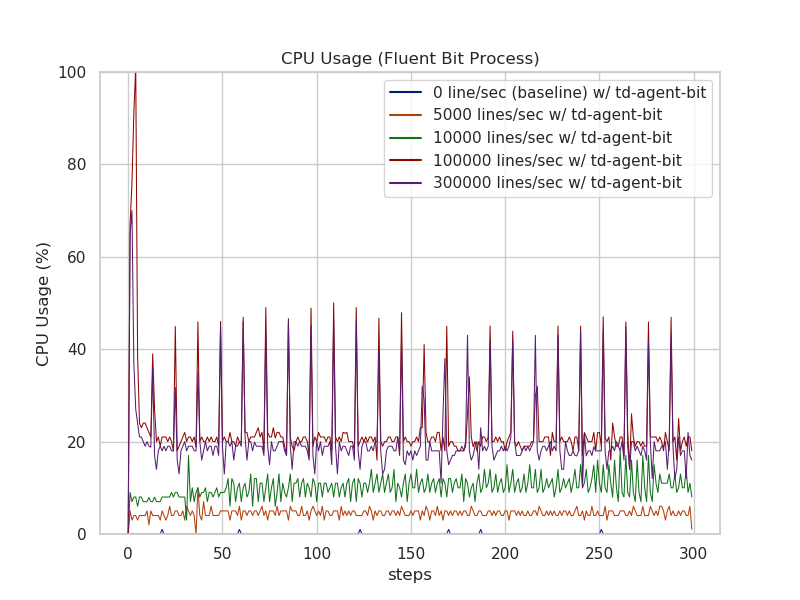
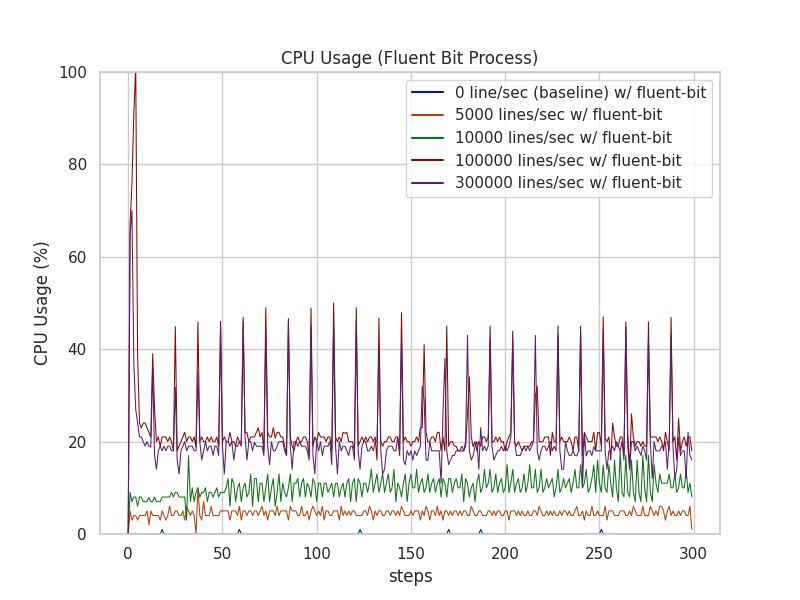
Replace with Fluent Bit word using graphs

diff --git a/in_tail_bench_fluent_bit/visualize/plot_pandas_Usage.py b/in_tail_bench_fluent_bit/visualize/plot_pandas_Usage.py
@@ -16,11 +16,12 @@ parser.add_argument('--resource',
                              'read_bytes', 'write_bytes',
                              'recv_bytes', 'send_bytes'],
                     default='cpu')
-parser.add_argument('--package-name', default="td-agent-bit")
+parser.add_argument('--process-name', default="td-agent-bit")
+parser.add_argument('--package-name', default="fluent-bit")
 args = parser.parse_args()
 
 if args.resource == 'cpu':
-    resource_key = "CPU Usage(%)[" + args.package_name.title()[:15] + "#0]"
+    resource_key = "CPU Usage(%)[" + args.process_name.title()[:15] + "#0]"
     xlabel_message = 'flow rate (lines/second)'
     ylabel_message = 'CPU Usage (%)'
     ylimit = 100
@@ -28,7 +29,7 @@ if args.resource == 'cpu':
     fig_name = args.package_name.title() + '-CPU_usage.png'
     divide_base = -1
 elif args.resource == 'rss':
-    resource_key = "RSS(MB)[" + args.package_name.title()[:15] + "#0]"
+    resource_key = "RSS(MB)[" + args.process_name.title()[:15] + "#0]"
     xlabel_message = 'flow rate (lines/second)'
     ylabel_message = 'RSS Usage (MB) '
     ylimit = 500
@@ -36,7 +37,7 @@ elif args.resource == 'rss':
     fig_name = args.package_name.title() + '-RSS_usage.png'
     divide_base = -1
 elif args.resource == 'vms':
-    resource_key = "VMS(MB)[" + args.package_name.title()[:15] + "#0]"
+    resource_key = "VMS(MB)[" + args.process_name.title()[:15] + "#0]"
     xlabel_message = 'flow rate (lines/second)'
     ylabel_message = 'VMS Usage (MB)'
     ylimit = 1200
@@ -105,11 +106,11 @@ sns.set_palette('Set3')
 base_path = os.path.join(pwd, '..', "ansible", "output", collector, "home", username)
 print(base_path)
 
-rate_0    = pd.read_csv(os.path.join(base_path, 'usage-'+ args.package_name + '-0.tsv'), sep='\t', na_values='.')
-rate_5000  = pd.read_csv(os.path.join(base_path, 'usage-'+ args.package_name + '-5000.tsv'), sep='\t', na_values='.')
-rate_10000 = pd.read_csv(os.path.join(base_path, 'usage-'+ args.package_name + '-10000.tsv'), sep='\t', na_values='.')
-rate_100000 = pd.read_csv(os.path.join(base_path, 'usage-'+ args.package_name + '-100000.tsv'), sep='\t', na_values='.')
-rate_300000 = pd.read_csv(os.path.join(base_path, 'usage-'+ args.package_name + '-300000.tsv'), sep='\t', na_values='.')
+rate_0    = pd.read_csv(os.path.join(base_path, 'usage-'+ args.process_name + '-0.tsv'), sep='\t', na_values='.')
+rate_5000  = pd.read_csv(os.path.join(base_path, 'usage-'+ args.process_name + '-5000.tsv'), sep='\t', na_values='.')
+rate_10000 = pd.read_csv(os.path.join(base_path, 'usage-'+ args.process_name + '-10000.tsv'), sep='\t', na_values='.')
+rate_100000 = pd.read_csv(os.path.join(base_path, 'usage-'+ args.process_name + '-100000.tsv'), sep='\t', na_values='.')
+rate_300000 = pd.read_csv(os.path.join(base_path, 'usage-'+ args.process_name + '-300000.tsv'), sep='\t', na_values='.')
 
 print(resource_key)
 

diff --git a/in_tail_bench_fluent_bit/visualize/plot_pandas_lineplot_Usage.py b/in_tail_bench_fluent_bit/visualize/plot_pandas_lineplot_Usage.py
@@ -111,11 +111,11 @@ rate_100000 = pd.read_csv(os.path.join(base_path, 'usage-td-agent-bit-100000.tsv
 rate_300000 = pd.read_csv(os.path.join(base_path, 'usage-td-agent-bit-300000.tsv'), sep='\t', na_values='.')
 
 df = pd.DataFrame({
-    "0 line/sec (baseline) w/ td-agent-bit": rate_0[resource_key_format.format("td-agent-bit".title())],
-    "5000 lines/sec w/ td-agent-bit": rate_5000[resource_key_format.format("td-agent-bit".title())],
-    "10000 lines/sec w/ td-agent-bit": rate_10000[resource_key_format.format("td-agent-bit".title())],
-    "100000 lines/sec w/ td-agent-bit": rate_100000[resource_key_format.format("td-agent-bit".title())],
-    "300000 lines/sec w/ td-agent-bit": rate_300000[resource_key_format.format("td-agent-bit".title())],
+    "0 line/sec (baseline) w/ fluent-bit": rate_0[resource_key_format.format("td-agent-bit".title())],
+    "5000 lines/sec w/ fluent-bit": rate_5000[resource_key_format.format("td-agent-bit".title())],
+    "10000 lines/sec w/ fluent-bit": rate_10000[resource_key_format.format("td-agent-bit".title())],
+    "100000 lines/sec w/ fluent-bit": rate_100000[resource_key_format.format("td-agent-bit".title())],
+    "300000 lines/sec w/ fluent-bit": rate_300000[resource_key_format.format("td-agent-bit".title())],
 })
 if divide_base > 1:
     df = df_td.divide(divide_base)

diff --git a/in_tail_bench_fluent_bit/in_tail_fbit_bench_result/RESULT.md b/in_tail_bench_fluent_bit/in_tail_fbit_bench_result/RESULT.md
@@ -68,30 +68,6 @@ in_tail ------> out_http -----> [aggregator node]
 
 Received HTTP requests with https-benchmark-server (included binary tarball).
 
-## Results -- Boxplots
-
-### td-agent-bit
-
-#### CPU usage
-
-![Td Agent Bit CPU Usage](Td-Agent-Bit-CPU_usage.png)
-
-CPU usage of td-agent-bit worker corresponds to flow rate.
-300000 lines / sec seems to be saturated for processing?
-(This plot does not adjust with CPU counts.)
-
-#### RSS usage
-
-![Td Agent Bit RSS Usage](Td-Agent-Bit-RSS_usage.png)
-
-RSS usage of td-agent-bit supervisor is almost same.
-This plot uses actual values of RSS.
-
-#### VMS usage
-
-![Td Agent Bit VMS Usage](Td-Agent-Bit-VMS_usage.png)
-
-This plot uses actual values of VMS.
 
 ### Results -- Lineplot
 
@@ -123,3 +99,34 @@ CPU usages correspond to flow rate.
      * Flow rate
    * Fluent Bit's CPU usage is corresponding to flow rate, but slightly reduced CPU usage in high loaded case (tailing 300000 lines/sec). This might be indicated that 300000 lines / sec case is saturated for processing.
    * Fluent Bit's memory foot print is almost lower than 300MB event if highly loaded case. Median of memory usage is around 100 MB.
+
+
+### Appendix
+
+Reading tendency of resource usages from Line plot is a bit of hard. Using box plot makes easier to comprehension about them.
+Within a box, resource usage is from 25 percentile to 75 percentile.
+
+## Results -- Boxplots
+
+### fluent-bit
+
+#### CPU usage
+
+![Fluent Bit CPU Usage](Fluent-Bit-CPU_usage.png)
+
+CPU usage of fluent-bit process corresponds to flow rate.
+300000 lines / sec seems to be saturated for processing?
+(This plot does not adjust with CPU counts.)
+
+#### RSS usage
+
+![Fluent Bit RSS Usage](Fluent-Bit-RSS_usage.png)
+
+RSS usage of fluent-bit supervisor is almost same.
+This plot uses actual values of RSS.
+
+#### VMS usage
+
+![Fluent Bit VMS Usage](Fluent-Bit-VMS_usage.png)
+
+This plot uses actual values of VMS.
